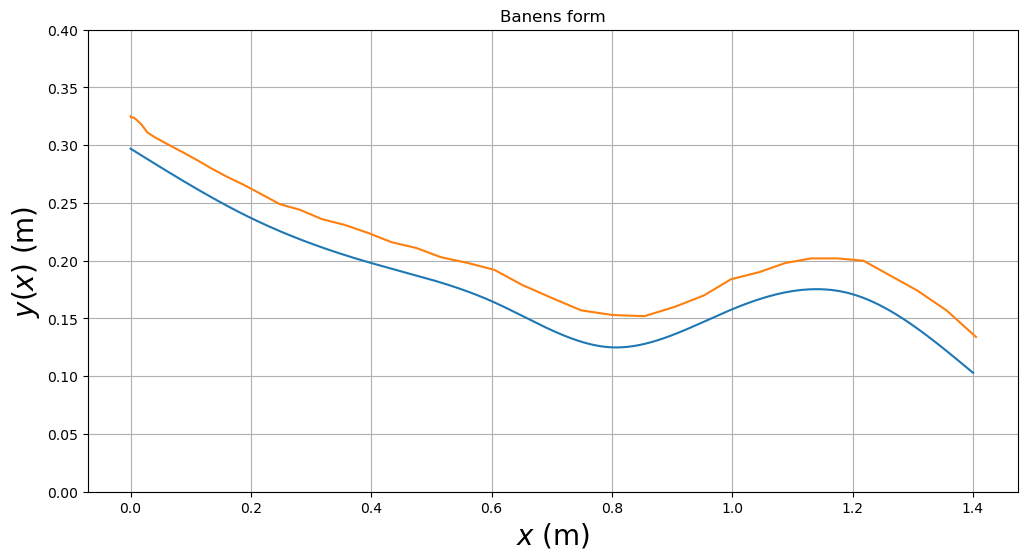
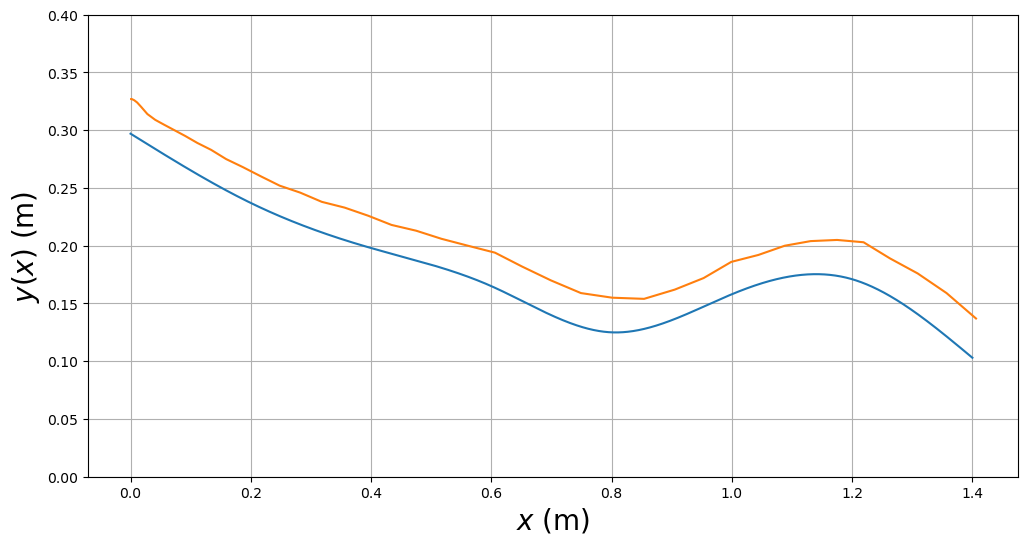
Ferdig med plotting av data

diff --git a/cubicspline.py b/cubicspline.py
@@ -115,7 +115,6 @@ d2y = cs(x, 2)  # d2y=tabell med 1401 verdier for y''(x)
 baneform = plt.figure("y(x)", figsize=(12, 6))
 plt.plot(x, y)
 plt.plot(xExp, yExp)
-plt.title("Banens form")
 plt.xlabel("$x$ (m)", fontsize=20)
 plt.ylabel("$y(x)$ (m)", fontsize=20)
 plt.ylim(0.0, 0.40)
@@ -127,7 +126,6 @@ v = np.sqrt((2 * 9.81 * (y[0] - y)) / (1 + (2 / 5)))
 kulefart = plt.figure("y(x)", figsize=(12, 6))
 plt.plot(x, v)
 plt.plot(xExp, vExp)
-plt.title("Kulas fart")
 plt.xlabel("$x$ (m)", fontsize=20)
 plt.ylabel("$v(x)$ (m/s)", fontsize=20)
 plt.grid()
@@ -141,9 +139,8 @@ bExp = np.arctan(dyDiff)
 helling = plt.figure("y(x)", figsize=(12, 6))
 plt.plot(x, b)
 plt.plot(xExp[1:-1], bExp)
-plt.title("Helningsvinkel")
 plt.xlabel("$x$ (m)", fontsize=20)
-plt.ylabel("$vinekl$ (rad)", fontsize=20)
+plt.ylabel("$β$ (rad)", fontsize=20)
 plt.grid()
 plt.show()
 
@@ -160,7 +157,6 @@ for i in range(1, Nx):
 tidsutvikling = plt.figure("y(x)", figsize=(12, 6))
 plt.plot(t, x)
 plt.plot(tExp, xExp)
-plt.title("Tidsutvikling")
 plt.xlabel("$t$ (s)", fontsize=20)
 plt.ylabel("$x$ (m)", fontsize=20)
 plt.grid()
@@ -173,12 +169,12 @@ kEpx = np.divide(d2yDiff, (1 + dyDiff[1:-1] ** 2) ** (3 / 2))
 krumning = plt.figure("y(x)", figsize=(12, 6))
 plt.plot(x, k)
 plt.plot(xExp[2:-2], kEpx)
-plt.title("Krumning")
 plt.xlabel("$x$ (m)", fontsize=20)
-plt.ylabel("$r$ (m)", fontsize=20)
+plt.ylabel("$K(x)$ (1/m)", fontsize=20)
 plt.ylim(-10, 10)
 plt.grid()
 plt.show()
+
 
 aExp = np.multiply(vExp[2:-2], vExp[2:-2], kEpx)
 a = np.multiply(v, v, k)
@@ -189,19 +185,45 @@ n = np.array(0.031 * (9.81 * np.cos(b) + a))
 normalkraft = plt.figure("y(x)", figsize=(12, 6))
 plt.plot(x, n)
 plt.plot(xExp[2:-2], nExp)
-plt.title("Normalkraft")
 plt.xlabel("$x$ (m)", fontsize=20)
-plt.ylabel("$N/MG$", fontsize=20)
+plt.ylabel("$N/Mg$", fontsize=20)
 plt.grid()
 plt.show()
 
+f = np.array((2 / 7) * 0.031 * 9.81 * np.sin(b))
+fExp = np.array((2 / 7) * 0.031 * 9.81 * np.sin(bExp))
+
+fn = np.abs(f / n)
+fnExp = np.abs(fExp[1:-1] / nExp)
+
+friksjonsforhold = plt.figure("y(x)", figsize=(12, 6))
+plt.plot(x, fn)
+plt.plot(xExp[2:-2], fnExp)
+# plt.plot(xExp[2:-2], nExp)
+plt.xlabel("$x$ (m)", fontsize=20)
+plt.ylabel("$|f/N|$", fontsize=20)
+plt.grid()
+plt.show()
+
+tidFart = plt.figure("y(x)", figsize=(12, 6))
+plt.plot(t, v)
+plt.plot(tExp, vExp)
+# plt.plot(xExp[2:-2], nExp)
+plt.xlabel("$t$ (s)", fontsize=20)
+plt.ylabel("$v$ (m/s)", fontsize=20)
+plt.grid()
+plt.show()
+
+
 # Figurer kan lagres i det formatet du foretrekker:
-baneform.savefig("baneform.png", bbox_inches="tight")
-kulefart.savefig("kulefart.png", bbox_inches="tight")
-helling.savefig("helling.png", bbox_inches="tight")
-tidsutvikling.savefig("tidsutvikling.png", bbox_inches="tight")
-krumning.savefig("krumning.png", bbox_inches="tight")
-normalkraft.savefig("normalkraft.png", bbox_inches="tight")
+baneform.savefig("Baneform.png", bbox_inches="tight")
+kulefart.savefig("Kulefart.png", bbox_inches="tight")
+helling.savefig("Helling.png", bbox_inches="tight")
+tidsutvikling.savefig("Tidsutvikling.png", bbox_inches="tight")
+krumning.savefig("Krumning.png", bbox_inches="tight")
+normalkraft.savefig("Normalkraft.png", bbox_inches="tight")
+friksjonsforhold.savefig("Friksjonsforhold.png", bbox_inches="tight")
+tidFart.savefig("Fartsutvikling.png", bbox_inches="tight")
 
 # baneform.savefig("baneform.png", bbox_inches='tight')
 # baneform.savefig("baneform.eps", bbox_inches='tight')
